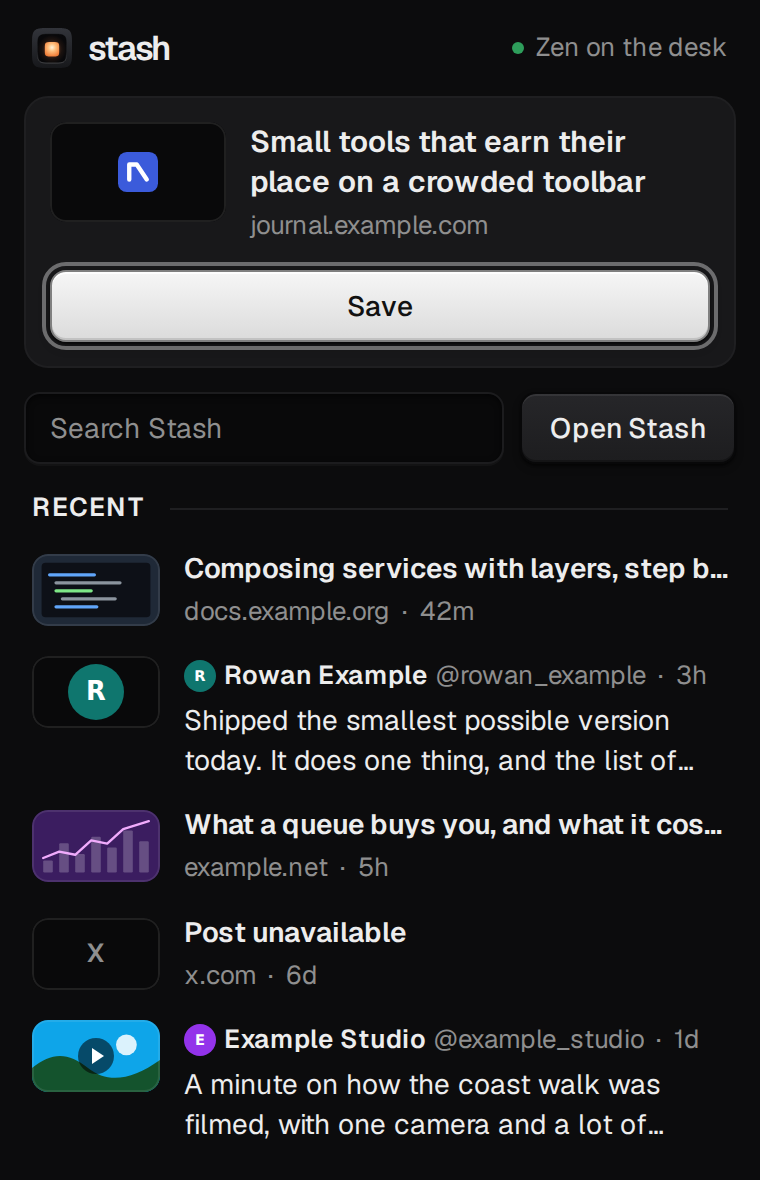
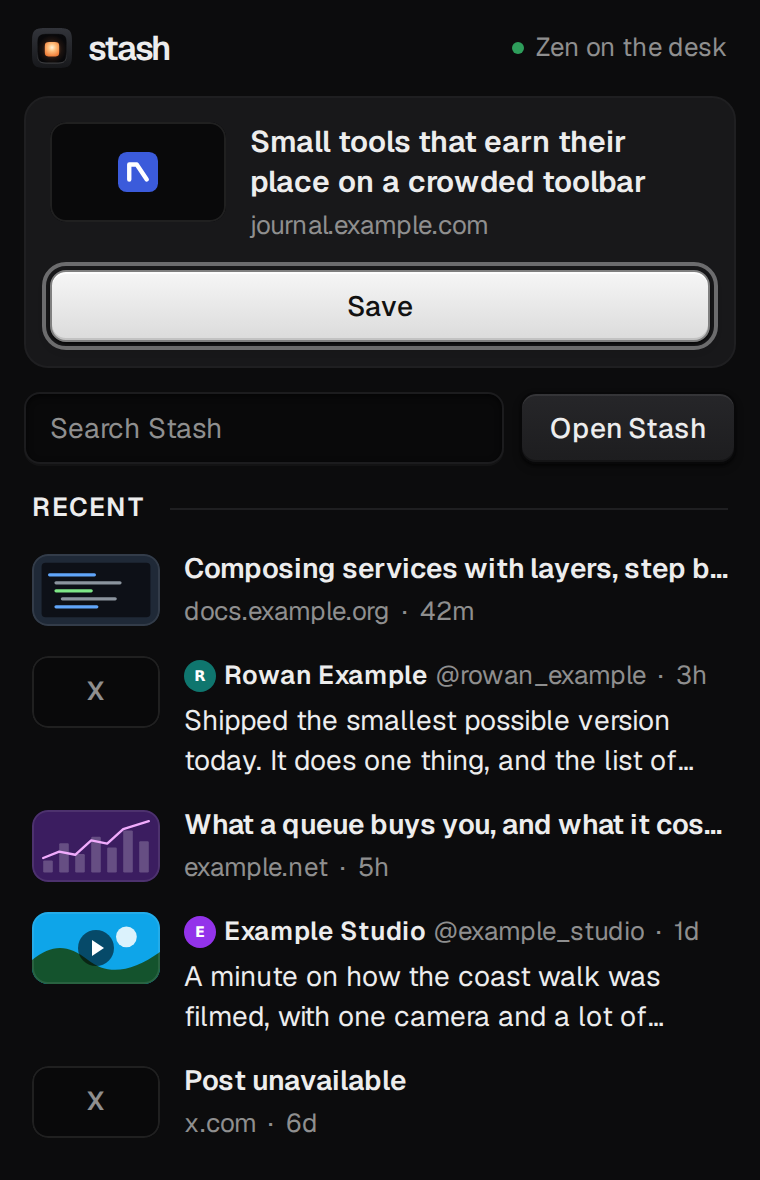
Popup: cap at 600px with the recent list scrolling inside (#173 review)
- The popup is at most 600px tall (Firefox's limit); past it the recent
  list scrolls up and down inside, never sideways. The screenshot script
  now fails if the list scrolls sideways and reports when it scrolls.
- The saved preview shows the real five recent rows again, two of them
  posts; the paired fixture is newest first.
- A post without media shows the site's initial in its thumb instead of
  repeating the author's picture.
- Page test for an unavailable post whose title is `Post unavailable`.

diff --git a/apps/extension/entrypoints/popup/popup-page.vue b/apps/extension/entrypoints/popup/popup-page.vue
@@ -9,7 +9,8 @@ import type * as PopupActions from "./popup-actions.ts";
 // latest saved links and the connection. It only shows state and calls `actions`; the logic is in
 // `@stash/ext-popup`. The rows follow the media rows of the web app: a thumb, a title and one
 // muted line. A post on X is the same row in a post's order: the author's line first (picture,
-// name, verified mark, @handle, age), then the post's words on two lines. Remote pictures load
+// name, verified mark, @handle, age), then the post's words on two lines. The popup is at most
+// 600px tall (Firefox's limit), and the recent list scrolls inside it. Remote pictures load
 // lazily and send no referrer.
 const props = defineProps<{ actions: PopupActions.Actions }>();
 
@@ -292,7 +293,7 @@ const openStash = () => {
       <button class="button tactile-raised" type="button" @click="openStash">Open Stash</button>
     </form>
 
-    <section v-if="recent.length > 0" aria-labelledby="recent-title">
+    <section v-if="recent.length > 0" class="recent-section" aria-labelledby="recent-title">
       <div class="group-header">
         <h2 id="recent-title">Recent</h2>
         <span class="rule" aria-hidden="true" />
@@ -315,16 +316,7 @@ const openStash = () => {
                 referrerpolicy="no-referrer"
                 @error="broken.add(link.post.previewUrl ?? '')"
               />
-              <img
-                v-else-if="usable(link.post.avatarUrl)"
-                class="thumb-avatar"
-                :src="usable(link.post.avatarUrl) ?? undefined"
-                alt=""
-                loading="lazy"
-                referrerpolicy="no-referrer"
-                @error="broken.add(link.post.avatarUrl ?? '')"
-              />
-              <span v-else aria-hidden="true">{{ initial(link.post.name) }}</span>
+              <span v-else aria-hidden="true">{{ initial(link.host) }}</span>
               <span
                 v-if="link.post.video && usable(link.post.previewUrl)"
                 class="play"
@@ -416,8 +408,11 @@ const openStash = () => {
 <style src="../../assets/tokens.css"></style>
 
 <style scoped>
+/* Firefox gives a popup at most 600px of height; past that, the recent list scrolls inside. */
 .popup {
+  box-sizing: border-box;
   display: flex;
+  max-height: 600px;
   flex-direction: column;
   gap: 12px;
   width: 380px;
@@ -568,12 +563,6 @@ const openStash = () => {
   height: 20px;
 }
 
-.thumb-avatar {
-  width: 28px;
-  height: 28px;
-  border-radius: 50%;
-  object-fit: cover;
-}
 /* A video's poster carries a small play mark. */
 .play {
   position: absolute;
@@ -745,11 +734,20 @@ const openStash = () => {
   flex: 1;
   background: var(--hairline);
 }
+.recent-section {
+  display: flex;
+  min-height: 0;
+  flex-direction: column;
+}
+/* Only up and down: a scrollbar narrows the rows, it never scrolls them sideways. */
 .recent {
   display: flex;
+  min-height: 0;
   flex-direction: column;
   margin: 4px 0 0;
   padding: 0;
+  overflow-x: hidden;
+  overflow-y: auto;
   list-style: none;
 }
 .link {

diff --git a/apps/extension/scripts/popup-screenshots.ts b/apps/extension/scripts/popup-screenshots.ts
@@ -1,7 +1,8 @@
 // `pnpm --filter @stash/extension screenshots`: renders the toolbar popup (the real
 // `popup-page.vue` over the made-up states in `preview/popup/`, so no browser extension, no api
 // and no session) and captures it with headless Chromium in both themes into `docs/screenshots/`
-// as `extension-popup-<state>-<theme>.png`. It exits 1 if the popup scrolls sideways.
+// as `extension-popup-<state>-<theme>.png`. It exits 1 if the popup or its recent list scrolls
+// sideways, or the popup is taller than Firefox's 600px.
 import * as Fs from "node:fs";
 import * as Path from "node:path";
 import vue from "@vitejs/plugin-vue";
@@ -49,8 +50,16 @@ try {
       const popup = page.locator(".popup");
       const height = (await popup.boundingBox())?.height ?? 0;
       if (height > 600) problems.push(`${file}: ${height}px tall, a popup is 600 at most`);
+      // Past 600px the recent list scrolls inside the popup: up and down only.
+      const list = (await page.evaluate(
+        `(() => { const it = document.querySelector(".recent"); return it && { sw: it.scrollWidth, cw: it.clientWidth, sh: it.scrollHeight, ch: it.clientHeight }; })()`,
+      )) as { sw: number; cw: number; sh: number; ch: number } | null;
+      if (list !== null && list.sw > list.cw)
+        problems.push(`${file}: the recent list scrolls sideways (${list.sw} > ${list.cw})`);
+      const scrolls =
+        list !== null && list.sh > list.ch ? `, recent list scrolls ${list.sh - list.ch}px` : "";
       await popup.screenshot({ path: Path.join(outDir, file) });
-      console.log(`✓ ${file}`);
+      console.log(`✓ ${file} (${Math.round(height)}px${scrolls})`);
       await page.close();
     }
     await context.close();

diff --git a/apps/extension/test/popup-page.test.ts b/apps/extension/test/popup-page.test.ts
@@ -176,8 +176,14 @@ describe("popup page", () => {
       host: "x.com",
       post: { state: "unavailable" },
     };
-    const { wrapper } = await mountPopup({ saved: null, recent: [post, gone] });
-    const [row, other] = wrapper.findAll(".recent a");
+    // Enrichment found nothing to title it by: the title says it, once.
+    const untitled: PopupLink.PopupLink = {
+      ...gone,
+      id: Link.LinkId.make("untitled"),
+      title: "Post unavailable",
+    };
+    const { wrapper } = await mountPopup({ saved: null, recent: [post, gone, untitled] });
+    const [row, other, last] = wrapper.findAll(".recent a");
     expect(row!.find(".byline").text()).toContain("Ada Example");
     expect(row!.find(".byline").text()).toContain("@ada_example");
     expect(row!.find(".post-text").text()).toBe("Words of the post");
@@ -191,5 +197,7 @@ describe("popup page", () => {
     }
     expect(other!.text()).toContain("Ben Example: an old post");
     expect(other!.text()).toContain("Post unavailable");
+    expect(last!.find(".row-title").text()).toBe("Post unavailable");
+    expect(last!.text().match(/Post unavailable/g)).toHaveLength(1);
   });
 });

diff --git a/apps/extension/preview/popup/preview-states.ts b/apps/extension/preview/popup/preview-states.ts
@@ -142,9 +142,6 @@ const recent = [
     60 * 5,
     chart("#3b1d60", "#f0abfc"),
   ),
-  link("post-gone", "Post unavailable", "x.com", 60 * 24 * 6, null, [], {
-    state: "unavailable",
-  }),
   link(
     "post-video",
     "Example Studio: A minute on how the coast walk was filmed",
@@ -161,6 +158,9 @@ const recent = [
       true,
     ),
   ),
+  link("post-gone", "Post unavailable", "x.com", 60 * 24 * 6, null, [], {
+    state: "unavailable",
+  }),
 ];
 
 const savedPage = link("small-tools", page.title, page.host, 0, hills("#3b5bdb", "#1e2a78"), [
@@ -178,7 +178,7 @@ const connected: PopupView.Connection = {
 const views = {
   "not-paired": { connection: { _tag: "NotPaired" }, saved: null, recent: [] },
   paired: { connection: connected, saved: null, recent },
-  saved: { connection: connected, saved: savedPage, recent: [savedPage, ...recent.slice(0, 3)] },
+  saved: { connection: connected, saved: savedPage, recent: [savedPage, ...recent.slice(0, 4)] },
 } satisfies Record<string, PopupView.View>;
 
 export type State = keyof typeof views;

diff --git a/apps/extension/CLAUDE.md b/apps/extension/CLAUDE.md
@@ -49,9 +49,11 @@ platform services. WXT-generated code is the only exception.
 - A post on X (`link.post`) is a recent row in a post's order, as in the web Inbox ("Media rows"
   in [docs/design.md](../../docs/design.md)): the author's line (16px picture, name, verified
   mark, @handle, age) first, then the post's words on two lines; the preview is its first photo or
-  video poster (with a play mark), else the author's picture. A post that could not be read is an
+  video poster (with a play mark), else the site's initial (the author's picture is on the line
+  beside it). A post that could not be read is an
   ordinary row that says `Post unavailable`. Remote pictures load lazily with
-  `referrerpolicy="no-referrer"`.
+  `referrerpolicy="no-referrer"`. The popup is at most 600px tall (Firefox's limit): past it the
+  recent list scrolls up and down inside, never sideways.
 - Removing a link is a hard delete. The popup never puts the focus on Undo or Remove, offers the
   one-click Undo only for a link its own Save just created (`created: true`), and asks before
   removing any other.
